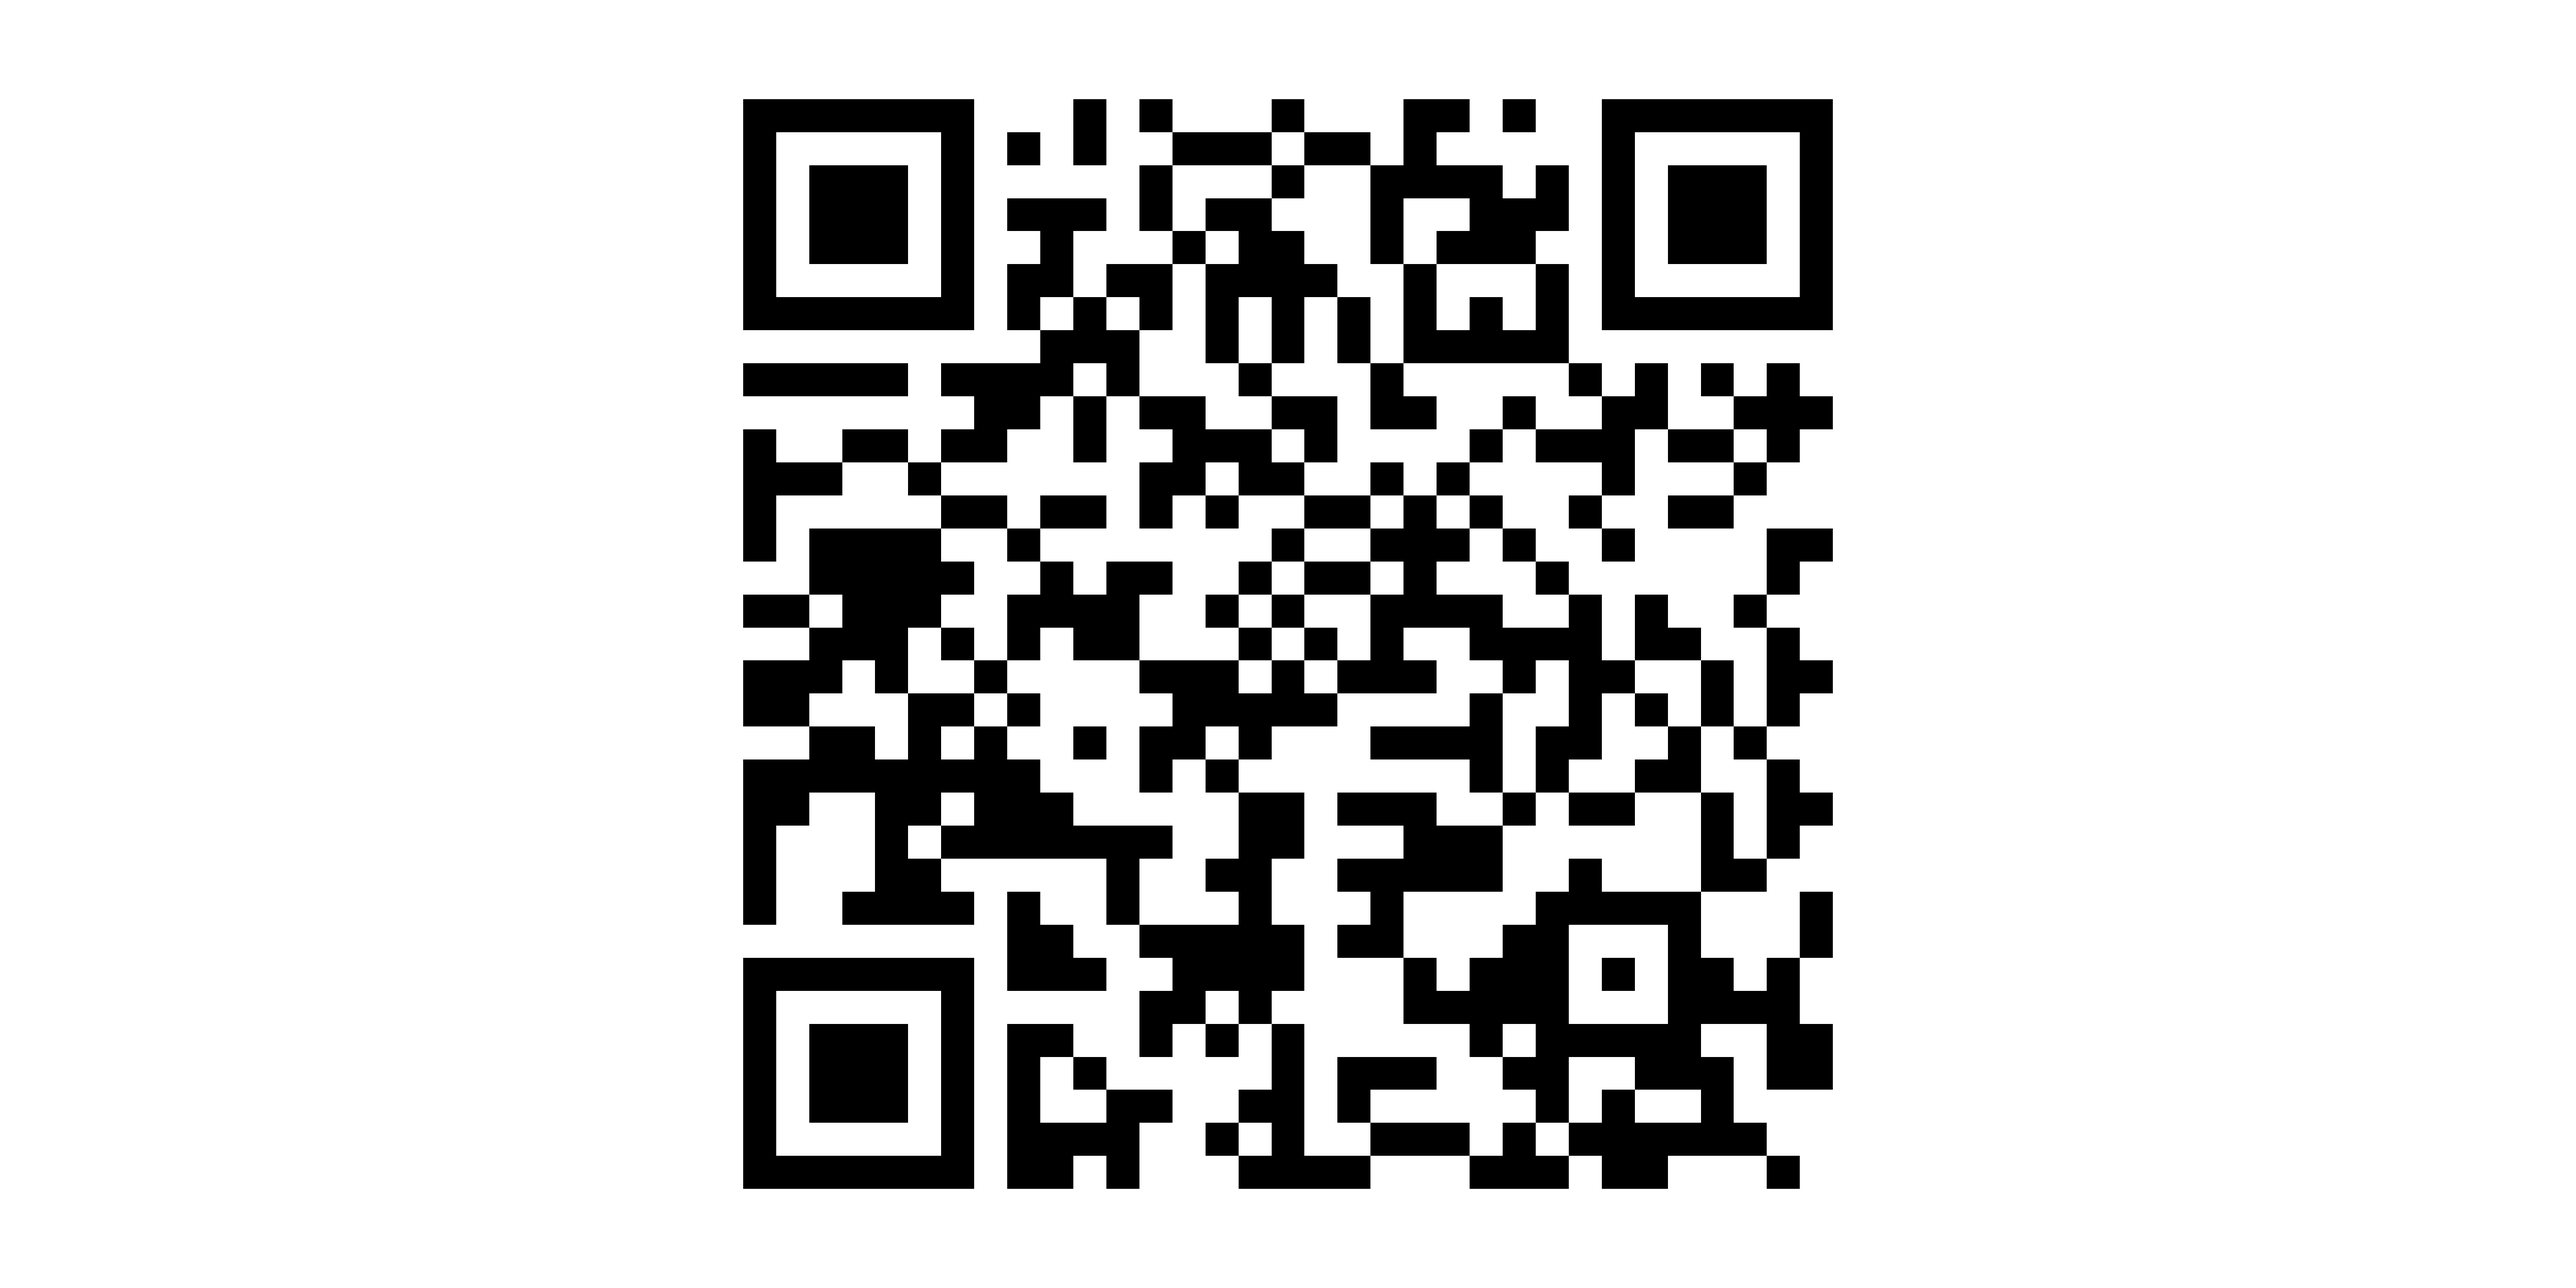
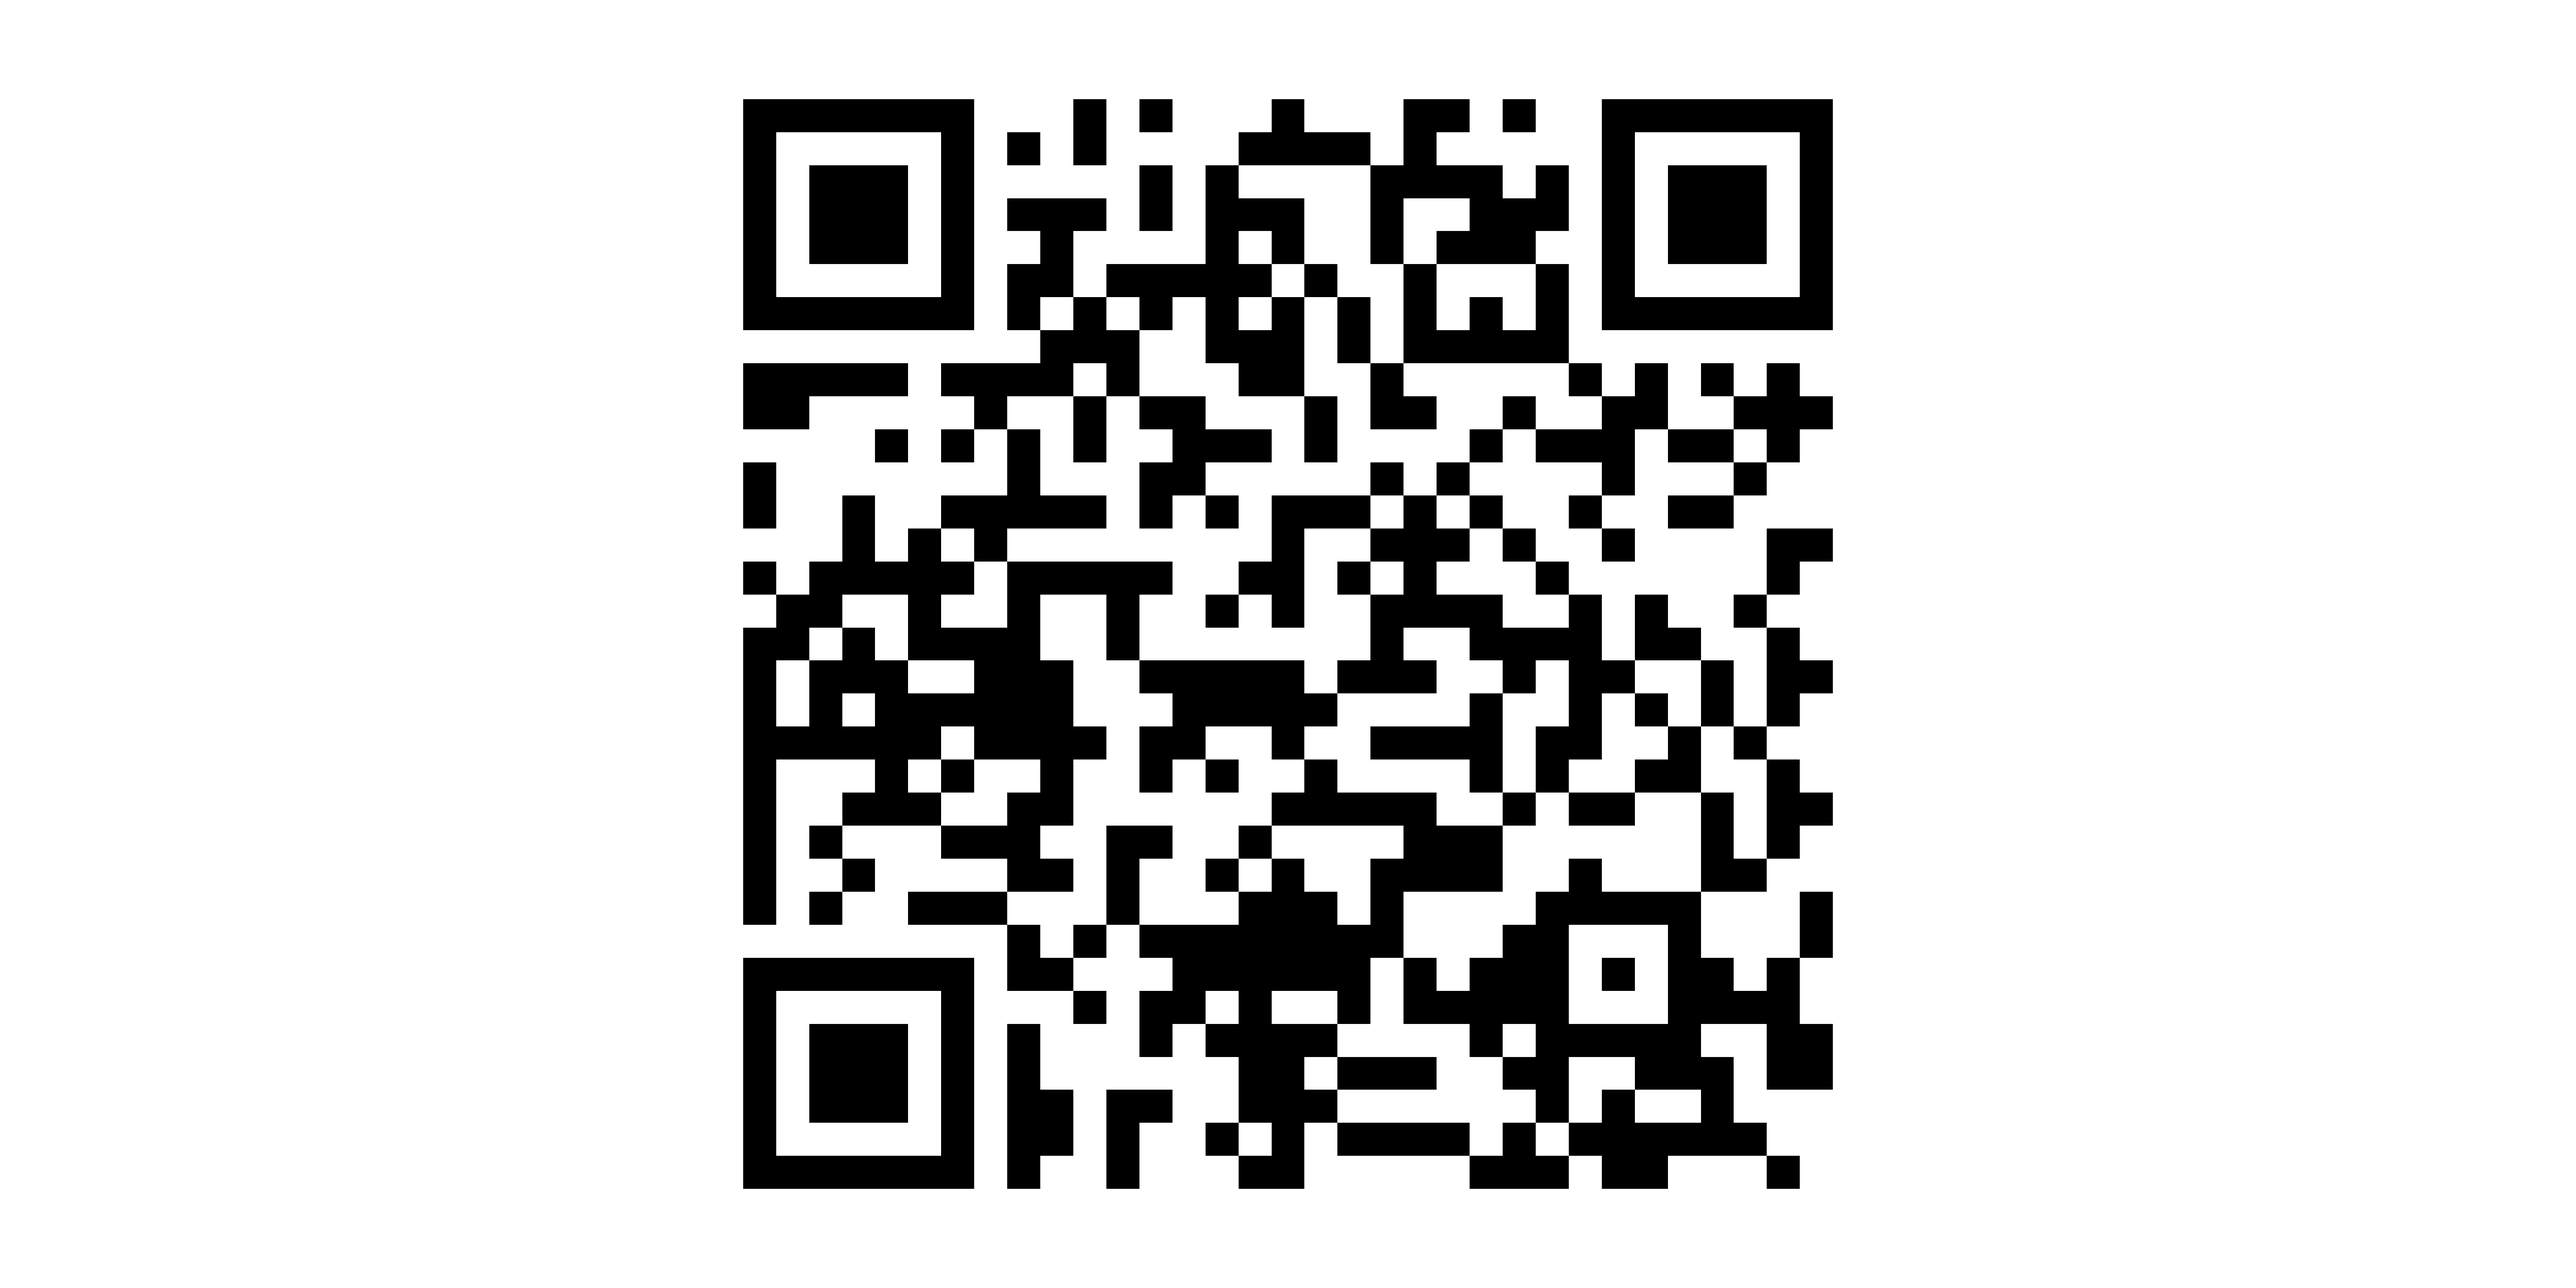
no message

diff --git a/2024/202408_Kobe_PC/02_Choice.html b/2024/202408_Kobe_PC/02_Choice.html
@@ -343,6 +343,30 @@
 
   <p class="date">2024-08-27</p>
 </section>
+<section id="授業後アンケート" class="slide level2 scrollable">
+<h2>授業後アンケート</h2>
+<ul>
+<li>おすすめの二郎系教えていただきたいです （関西関東問わず）</li>
+<li>「あなたの一票が国を変える」といったようなスローガンはあまり投票参加を促さないという結果に驚いた</li>
+<li>滅多にないですがたまにマイクに声が乗らず聞こえづらくなるときがあるので少しマイクの音量などをあげてもらえると有り難いです。</li>
+<li>社会経済的状況と投票参加の研究において、因果関係がありそうなものと、なさそうなものがあったがそれについて調べたものがあるか気になった。</li>
+<li>三宮でおすすめのラーメン屋があれば教えてください。</li>
+<li>バイアスを含む調査がほとんどで日本の選挙外活動に関する2010年の調査結果がおかしい結果が得られていると思うのですが、適切に調査ができているかどうかはどのようなことに注意をする必要があるのか伺いたいです。</li>
+<li>男性や高学歴の方が「過剰代表」されるという部分についてなぜ過剰代表となるのかが少し理解できませんでした。またそれに付随する政策応答性についても同時に解説していただけると嬉しいです。</li>
+<li>私は最近釣りにはまっているのですが、先生は何か趣味などございますでしょうか</li>
+<li>啓発活動をしてもさほど効果は無いのではないかという考えがあったが、効果がないどころか投票率に負の影響を与えるという実験結果に驚き、興味深いと思った。</li>
+<li>いろいろな検証をもとに授業を聞くことができて面白かったです。</li>
+<li>本日はありがとうございました。夏休みのうちに韓国旅行に行くので、おすすめの場所やお店があれば教えていただきたいです。</li>
+<li>既婚者と未婚者の投票率の違いについて、非若年層と若年層の投票率の違いが反映されているとおっしゃっていましたが、既婚者と離婚者でも投票率が違うのはどうしてでしょうか。子育てや教育などの政策に対し、既婚者のほうがより敏感になっている、などの細かい要素があるのでしょうか。</li>
+<li>啓発活動が逆にプレッシャーになって投票に消極的にさせるということが興味深かったです。</li>
+<li>普段、政治系の科目をあまり取っていないので勉強になった。</li>
+<li>台風どうなるんですかねぇ</li>
+<li>投票者がは有権者の縮図であるかという考え方は非常に面白いと感じました 僕も繁田に行ったことで、つけ麺に対する考え方が変わりました</li>
+<li>P項以外の要因の刺激の話で、D項を刺激する処置群を2と3に分けた理由はなんですか？</li>
+<li>処置群4も同等の結果が得られたということは、Pが0であると仮定すると、他の値に影響したと考えられますか。</li>
+<li>啓発活動の効果のところで、選挙啓発ポスターは投票率を少しでも高める効果があると思っていたが、政治に詳しくないと思う有権者にとって逆効果なことを初めて知り衝撃だった。</li>
+</ul>
+</section>
 <section>
 <section id="つの情報" class="title-slide slide level1 center">
 <h1>4つの情報</h1>
@@ -1821,11 +1845,10 @@ P_i \cdot P_X - Penalty_{i, X} &amp; \mbox{otherwise}.
 </ul>
 <!--
 
-## 次回の案内（前半の復習）
+## 小テスト
 
-- 授業後アンケートを実施します。以下の[QRコード](https://kobelaw.au1.qualtrics.com/jfe/form/SV_3gDEA7yAIflgFfM){target="_blank"}からアンケートへアクセスし、もう一度解説してほしい箇所を3つご記入ください。
-   - 内容が複数にページにまたがっている場合、最初のページ番号でご記入ください。たとえば、18〜21ページの内容を復習したい場合、18のみで回答してください。
-   - 評価に反映します。
+- 以下のQRコードから回答（複数回回答の場合、最後の回答に基づいて採点）
+   - 期限：講義中に指定
 
 
 
@@ -1837,22 +1860,26 @@ P_i \cdot P_X - Penalty_{i, X} &amp; \mbox{otherwise}.
 
 
 
-## 小テスト
-
-- 以下のQRコードから回答（複数回回答の場合、最後の回答に基づいて採点）
-   - 期限：講義中に指定
-
-
-
-::: {.cell layout-align="center"}
-::: {.cell-output-display}
-![](02_Choice_files/figure-revealjs/unnamed-chunk-11-1.png){fig-align='center' width=3000}
-:::
-:::
-
-
-
 -->
+</section>
+<section id="次回の案内前半の復習" class="slide level2">
+<h2>次回の案内（前半の復習）</h2>
+<ul>
+<li>授業後アンケートを実施します。以下の<a href="https://kobelaw.au1.qualtrics.com/jfe/form/SV_3gDEA7yAIflgFfM" target="_blank">QRコード</a>からアンケートへアクセスし、もう一度解説してほしい箇所を3つご記入ください。
+<ul>
+<li>内容が複数にページにまたがっている場合、最初のページ番号でご記入ください。たとえば、18〜21ページの内容を復習したい場合、18のみで回答してください。</li>
+<li>評価に反映します。</li>
+</ul></li>
+</ul>
+<div class="cell" data-layout-align="center">
+<div class="cell-output-display">
+<div class="quarto-figure quarto-figure-center">
+<figure>
+<p><img data-src="02_Choice_files/figure-revealjs/unnamed-chunk-11-1.png" class="quarto-figure quarto-figure-center" width="3000"></p>
+</figure>
+</div>
+</div>
+</div>
 <div class="quarto-auto-generated-content">
 <div class="footer footer-default">
 <p>政治文化論（2024年度夏期集中）<span class="citation" data-cites="神戸大学">@神戸大学</span></p>
